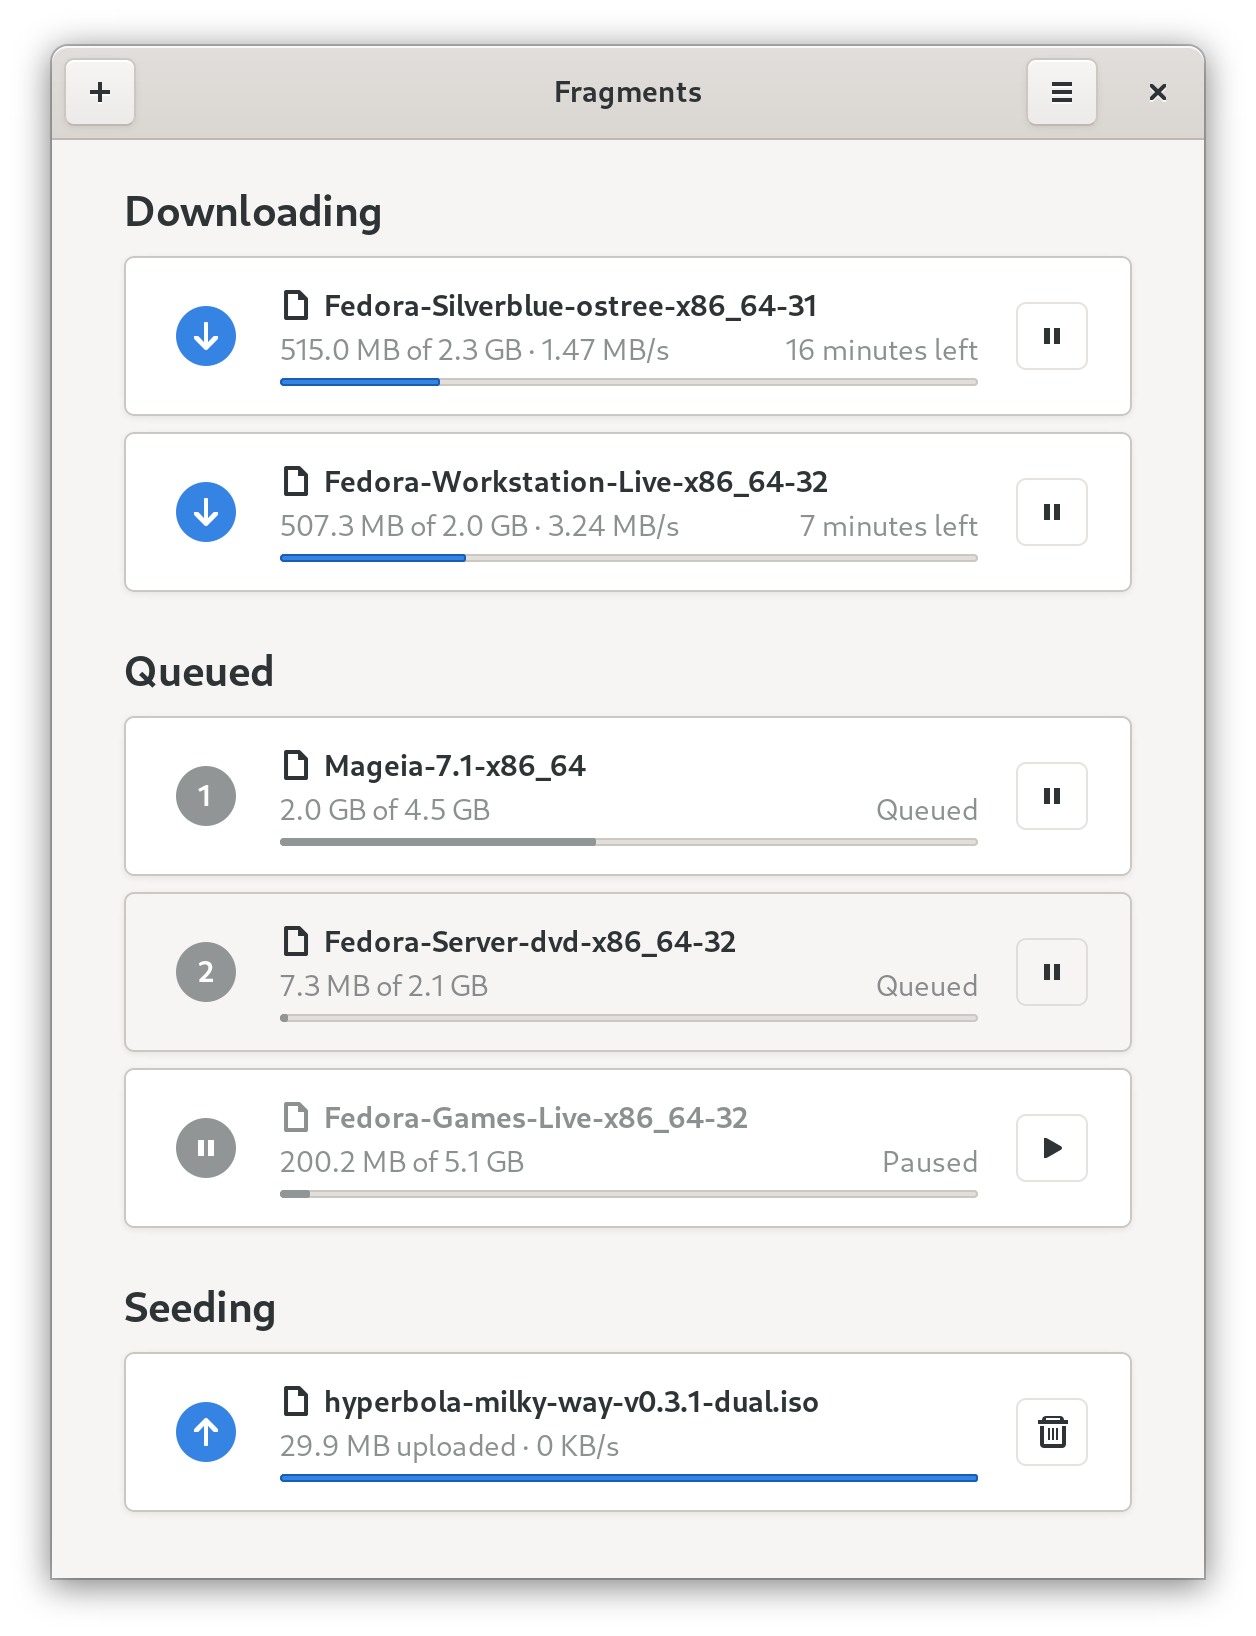
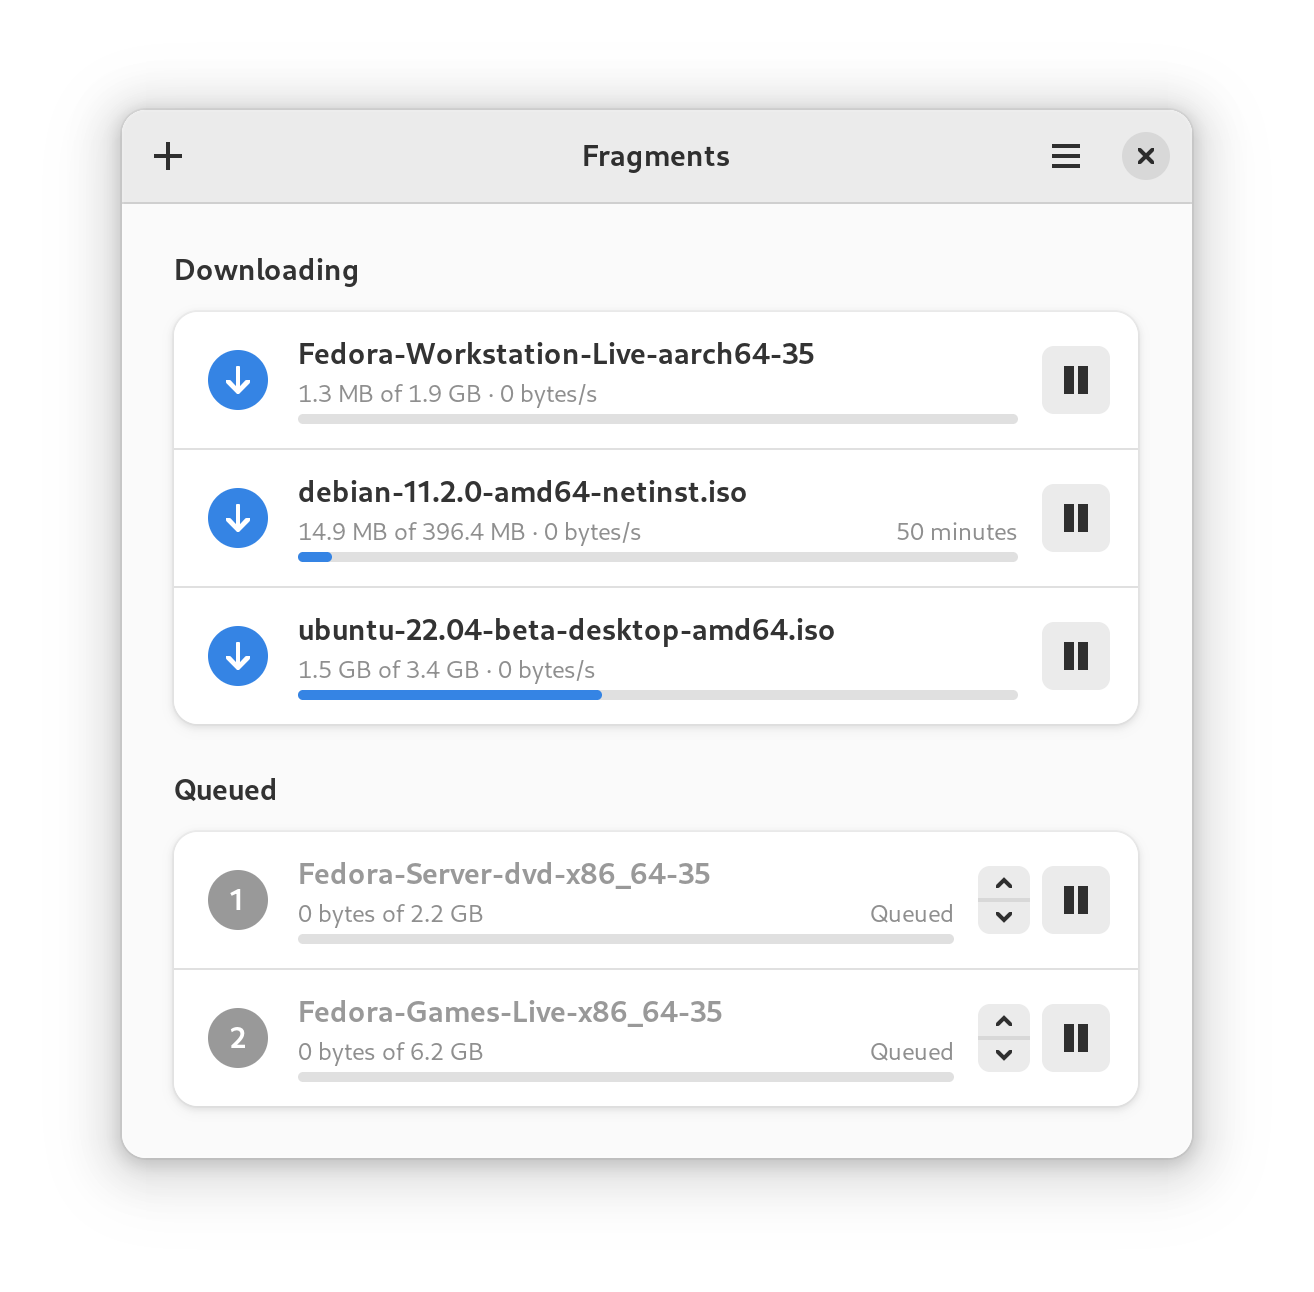
Content: GTK4 app screenshots
Update Contrast, Fragments, and Nostalgia screenshots to most recent 
version of the apps

diff --git a/index.html b/index.html
@@ -169,7 +169,7 @@
         <a href="https://blogs.gnome.org/haeckerfelix">Felix Häcker</a>.</p>
 
       <a class="link-button" href="https://flathub.org/apps/details/de.haeckerfelix.Fragments">Get the app</a>
-      <img class="image app-screenshot" srcset="assets/fragments@1x.png,
+      <img class="image app-screenshot wide" srcset="assets/fragments@1x.png,
                                                 assets/fragments@2x.png 2x"
         src="assets/contrast2.png"
         alt="Fragments torrent client downloading some GNU/Linux distribution ISOs.">
@@ -230,7 +230,7 @@
         wallpapers from past GNOME releases.</p>
 
       <a class="link-button" href="https://flathub.org/apps/details/im.bernard.Nostalgia">Get the app</a>
-      <img class="image app-screenshot" srcset="assets/nostalgia@1x.png,
+      <img class="image app-screenshot wide" srcset="assets/nostalgia@1x.png,
                                                 assets/nostalgia@2x.png 2x"
         src="assets/nostalgia@1x.png"
         alt="App window with a scrolling list of wallpapers.">

diff --git a/style.css b/style.css
@@ -119,11 +119,21 @@ p, li {
   margin: 1rem auto 0;
 }
 .app-screenshot {
-  margin: -1.5rem auto 0;
+  margin: -1rem auto 0;
+  transform: scale(1.2);
 }
-@media (min-width: 680px) {
-  .app-screenshot {
-    margin-left: -20px;
+/* Wider screenshots need some extra top margin */
+.app-screenshot.wide {
+  margin-top: 0;
+}
+@media (min-width: 650px) {
+  .app-screenshot,
+  .app-screenshot.wide {
+    max-width: inherit;
+    margin-left: -60px;
+    margin-top: -60px;
+    margin-bottom: -60px;
+    transform: scale(1);
   }
 }
 .rounded-corners {
